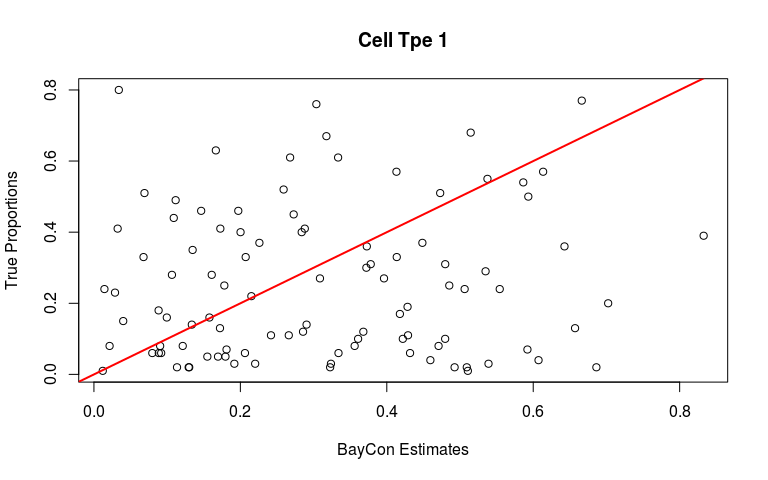
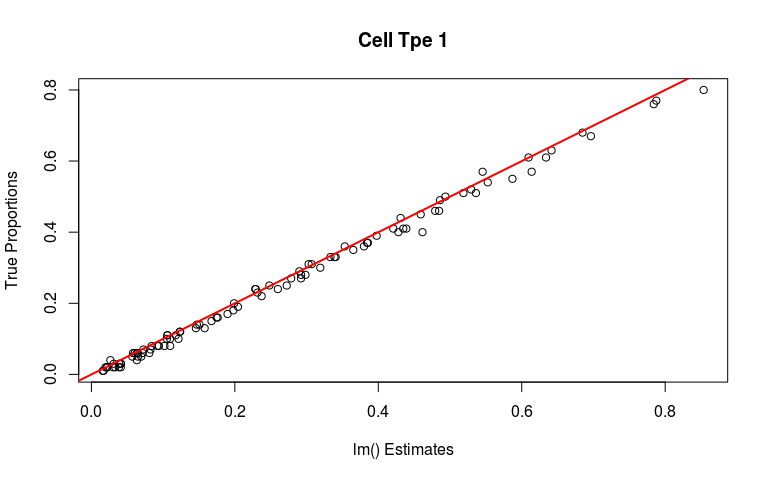
splat sim/test

diff --git a/doc/splat_sim.md b/doc/splat_sim.md
@@ -1,4 +1,4 @@
-Splatter Simulations
+Comparing methods on Splatter simulations
 ================
 asif zubair
 8/29/2019
@@ -29,44 +29,6 @@ t(splat_props[,1:5])
     ## [5,] 0.63 0.18 0.01 0.18
 
 ``` r
-out <- baycon(bulkExpression = splat_bulkExpression, sigMat = splat_sigMat, useHyperPrior = T, refresh = 0, iter = 3000)
-```
-
-    ## Warning: Bulk Effective Samples Size (ESS) is too low, indicating posterior means and medians may be unreliable.
-    ## Running the chains for more iterations may help. See
-    ## http://mc-stan.org/misc/warnings.html#bulk-ess
-    
-    ## Warning: Bulk Effective Samples Size (ESS) is too low, indicating posterior means and medians may be unreliable.
-    ## Running the chains for more iterations may help. See
-    ## http://mc-stan.org/misc/warnings.html#bulk-ess
-
-    ## Warning: There were 2 divergent transitions after warmup. Increasing adapt_delta above 0.8 may help. See
-    ## http://mc-stan.org/misc/warnings.html#divergent-transitions-after-warmup
-
-    ## Warning: Examine the pairs() plot to diagnose sampling problems
-
-    ## Warning: Tail Effective Samples Size (ESS) is too low, indicating posterior variances and tail quantiles may be unreliable.
-    ## Running the chains for more iterations may help. See
-    ## http://mc-stan.org/misc/warnings.html#tail-ess
-
-``` r
-out$stan$mean[1:5,]
-```
-
-    ##      estimatedProportionsVecSimp[1] estimatedProportionsVecSimp[2]
-    ## [1,]                     0.64269505                     0.06097352
-    ## [2,]                     0.08859229                     0.29039826
-    ## [3,]                     0.59208815                     0.09797526
-    ## [4,]                     0.48535278                     0.16200457
-    ## [5,]                     0.16650551                     0.31972726
-    ##      estimatedProportionsVecSimp[3] estimatedProportionsVecSimp[4]
-    ## [1,]                     0.24308049                     0.05325094
-    ## [2,]                     0.12573515                     0.49527430
-    ## [3,]                     0.21992679                     0.09000980
-    ## [4,]                     0.12169113                     0.23095152
-    ## [5,]                     0.02734933                     0.48641790
-
-``` r
 # let's also look at how linear regression does
 pEstimate = list()
 for (i in 1:ncol(splat_bulkExpression))
@@ -75,39 +37,60 @@ lmEsts <- do.call(rbind, pEstimate)
 lmEsts[1:5,]
 ```
 
-    ##           Group1     Group2     Group3     Group4
-    ## [1,]  0.70882958 -0.1775962  0.5226445 -0.0405499
-    ## [2,] -0.09100362  0.4005454  0.2108778  0.4750463
-    ## [3,]  0.27001641  0.2932814 -0.2384239  0.6968966
-    ## [4,]  0.27194566  0.1866711 -0.3297387  0.8808299
-    ## [5,]  0.07245644  0.4313767  0.3391111  0.1514394
+    ##          Group1     Group2     Group3    Group4
+    ## [1,] 0.35326706 0.30404190 0.14809515 0.2238420
+    ## [2,] 0.06038641 0.09942836 0.27944465 0.5431694
+    ## [3,] 0.07244853 0.47344360 0.13679012 0.3143336
+    ## [4,] 0.24814864 0.47879232 0.08090611 0.2028482
+    ## [5,] 0.64159197 0.19022179 0.02891447 0.1489125
 
 ``` r
+# CIBERSORT
 cbs <- CIBERSORT(sig_matrix = splat_sigMat, mixture_file = splat_bulkExpression, perm  = 20)
 cbs[1:5, ]
 ```
 
-    ##          Group1    Group2    Group3    Group4 P-value Correlation
-    ## Bulk1 0.3645666 0.1464047 0.3215129 0.1675158       0   0.9999103
-    ## Bulk2 0.1457477 0.3365670 0.2362983 0.2813870       0   0.9999468
-    ## Bulk3 0.1922081 0.2728235 0.1737676 0.3612008       0   0.9999541
-    ## Bulk4 0.1406028 0.2001314 0.1922531 0.4670127       0   0.9999054
-    ## Bulk5 0.1893763 0.2881135 0.2703636 0.2521466       0   0.9999606
-    ##              RMSE
-    ## Bulk1 0.013522494
-    ## Bulk2 0.010337827
-    ## Bulk3 0.009663857
-    ## Bulk4 0.013857699
-    ## Bulk5 0.008876614
+    ##          Group1    Group2     Group3    Group4 P-value Correlation
+    ## Bulk1 0.3137724 0.3133287 0.12084211 0.2520568       0   0.9996462
+    ## Bulk2 0.1181207 0.1159039 0.27979028 0.4861851       0   0.9988022
+    ## Bulk3 0.1182873 0.3970216 0.16308271 0.3216084       0   0.9989879
+    ## Bulk4 0.2553931 0.4414648 0.06777842 0.2353637       0   0.9995412
+    ## Bulk5 0.5537584 0.2048740 0.06467498 0.1766927       0   0.9979439
+    ##             RMSE
+    ## Bulk1 0.02899017
+    ## Bulk2 0.05848488
+    ## Bulk3 0.05408871
+    ## Bulk4 0.03440828
+    ## Bulk5 0.06717801
+
+``` r
+# BayCon
+out <- baycon(bulkExpression = splat_bulkExpression, sigMat = splat_sigMat, 
+              useHyperPrior = T, refresh = 0, iter = 3000)
+out$stan$mean[1:5,]
+```
+
+    ##      estimatedProportionsVecSimp[1] estimatedProportionsVecSimp[2]
+    ## [1,]                     0.34911409                     0.27708972
+    ## [2,]                     0.07349589                     0.09489192
+    ## [3,]                     0.07499817                     0.46496810
+    ## [4,]                     0.24881895                     0.41005814
+    ## [5,]                     0.63539514                     0.15630482
+    ##      estimatedProportionsVecSimp[3] estimatedProportionsVecSimp[4]
+    ## [1,]                     0.18134991                      0.1924463
+    ## [2,]                     0.28243082                      0.5491814
+    ## [3,]                     0.14231409                      0.3177196
+    ## [4,]                     0.09730187                      0.2438210
+    ## [5,]                     0.03225428                      0.1760458
 
 ![](splat_sim_files/figure-gfm/plot-1.png)<!-- -->
 
-    ## Correlation: 0.09066219
+    ## Correlation: 0.998164
 
 ![](splat_sim_files/figure-gfm/plot-2.png)<!-- -->
 
-    ## Correlation: 0.06593122
+    ## Correlation: 0.9975055
 
 ![](splat_sim_files/figure-gfm/plot-3.png)<!-- -->
 
-    ## Correlation: 0.07338582
+    ## Correlation: 0.9896048

diff --git a/data-raw/splat_sim_qc.md b/data-raw/splat_sim_qc.md
@@ -1,0 +1,116 @@
+QC of splatter simulation data
+================
+asif zubair
+9/4/2019
+
+## QC of `Splatter` simulations
+
+Let’s either build a new simulation or load an old one
+
+``` r
+newSim = TRUE
+if (newSim){
+    source("make_splatter_sim.R")
+} else {
+  library(deconR)  
+}
+```
+
+    ## Getting parameters...
+
+    ## Creating simulation object...
+
+    ## Simulating library sizes...
+
+    ## Simulating gene means...
+
+    ## Simulating group DE...
+
+    ## Simulating cell means...
+
+    ## Simulating BCV...
+
+    ## Simulating counts...
+
+    ## Simulating dropout (if needed)...
+
+    ## Done!
+
+    ## Warning in .local(object, ...): using library sizes as size factors
+
+    ## ✔ Setting active project to '/home/azubair/projects/deconR'
+    ## ✔ Saving 'splat_props', 'splat_sigMat', 'splat_bulkExpression' to 'data/splat_props.rda', 'data/splat_sigMat.rda', 'data/splat_bulkExpression.rda'
+
+Take a look at some data:
+
+``` r
+SingleCellExperiment::rowData(splat_sim)
+```
+
+    ## DataFrame with 2000 rows and 8 columns
+    ##              Gene       BaseGeneMean OutlierFactor           GeneMean
+    ##          <factor>          <numeric>     <numeric>          <numeric>
+    ## Gene1       Gene1   6.45135872092825             1   6.45135872092825
+    ## Gene2       Gene2 0.0725519730783946             1 0.0725519730783946
+    ## Gene3       Gene3   1.23885592146663             1   1.23885592146663
+    ## Gene4       Gene4   1.17640492247369             1   1.17640492247369
+    ## Gene5       Gene5  0.197514300980963             1  0.197514300980963
+    ## ...           ...                ...           ...                ...
+    ## Gene1996 Gene1996 0.0104151107656626             1 0.0104151107656626
+    ## Gene1997 Gene1997    1.3152411681482             1    1.3152411681482
+    ## Gene1998 Gene1998 0.0812994812003122             1 0.0812994812003122
+    ## Gene1999 Gene1999 0.0507980124101796             1 0.0507980124101796
+    ## Gene2000 Gene2000   0.51040193291887             1   0.51040193291887
+    ##                DEFacGroup1      DEFacGroup2       DEFacGroup3
+    ##                  <numeric>        <numeric>         <numeric>
+    ## Gene1                    1                1                 1
+    ## Gene2                    1                1                 1
+    ## Gene3     2.16401768228179                1  1.02493724898768
+    ## Gene4                    1                1                 1
+    ## Gene5                    1                1                 1
+    ## ...                    ...              ...               ...
+    ## Gene1996 0.551172654357728                1                 1
+    ## Gene1997                 1                1                 1
+    ## Gene1998                 1 1.37659198310672 0.744816484362254
+    ## Gene1999  0.52496545066184                1 0.810659980561758
+    ## Gene2000                 1                1                 1
+    ##                DEFacGroup4
+    ##                  <numeric>
+    ## Gene1                    1
+    ## Gene2                    1
+    ## Gene3                    1
+    ## Gene4                    1
+    ## Gene5                    1
+    ## ...                    ...
+    ## Gene1996 0.483767860595075
+    ## Gene1997                 1
+    ## Gene1998                 1
+    ## Gene1999                 1
+    ## Gene2000                 1
+
+``` r
+head(splat_sigMat)
+```
+
+    ##           Group1     Group2     Group3     Group4
+    ## Gene1 35.3917197 47.9444444 47.9943503 46.6212121
+    ## Gene2  0.3726115  0.4055556  0.4293785  0.4878788
+    ## Gene3 14.5732484  8.7944444  9.5875706  8.9606061
+    ## Gene4  6.2579618  8.2833333  9.2768362  8.8333333
+    ## Gene5  1.0509554  1.4666667  1.4350282  1.4757576
+    ## Gene6  0.8662420  1.3111111  1.1016949  1.2909091
+
+and some plots:
+
+``` r
+if (newSim)
+  scater::plotPCA(splat_sim, colour_by = "Group")
+```
+
+![](splat_sim_qc_files/figure-gfm/unnamed-chunk-1-1.png)<!-- -->
+
+``` r
+matplot(splat_sigMat, xlab = "Gene", ylab = "Expression")
+```
+
+![](splat_sim_qc_files/figure-gfm/unnamed-chunk-1-2.png)<!-- -->
